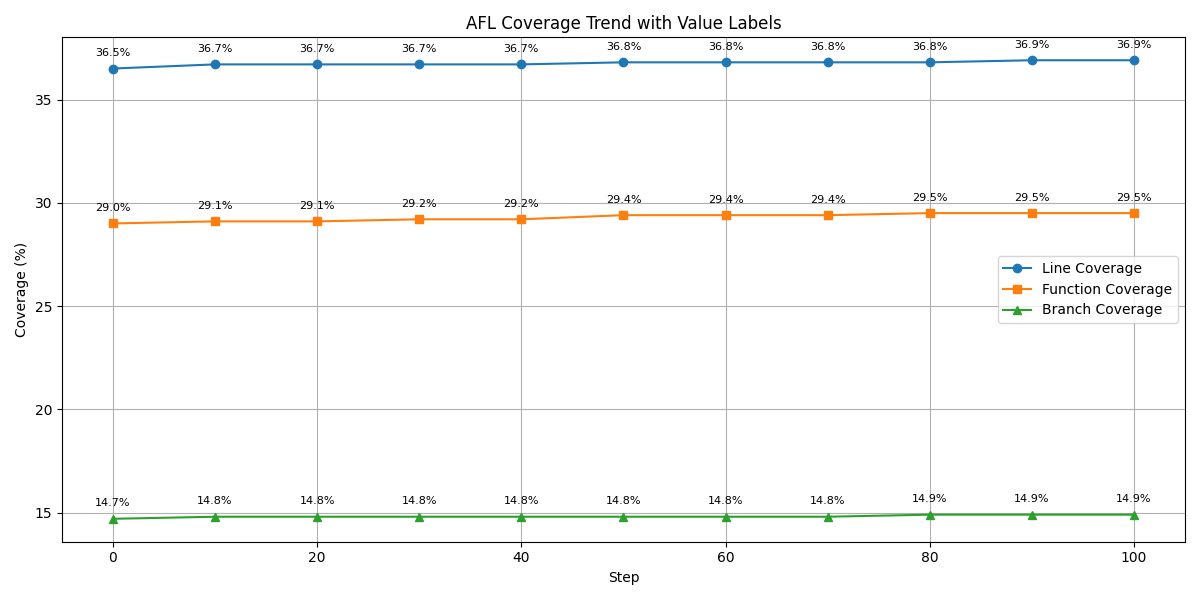
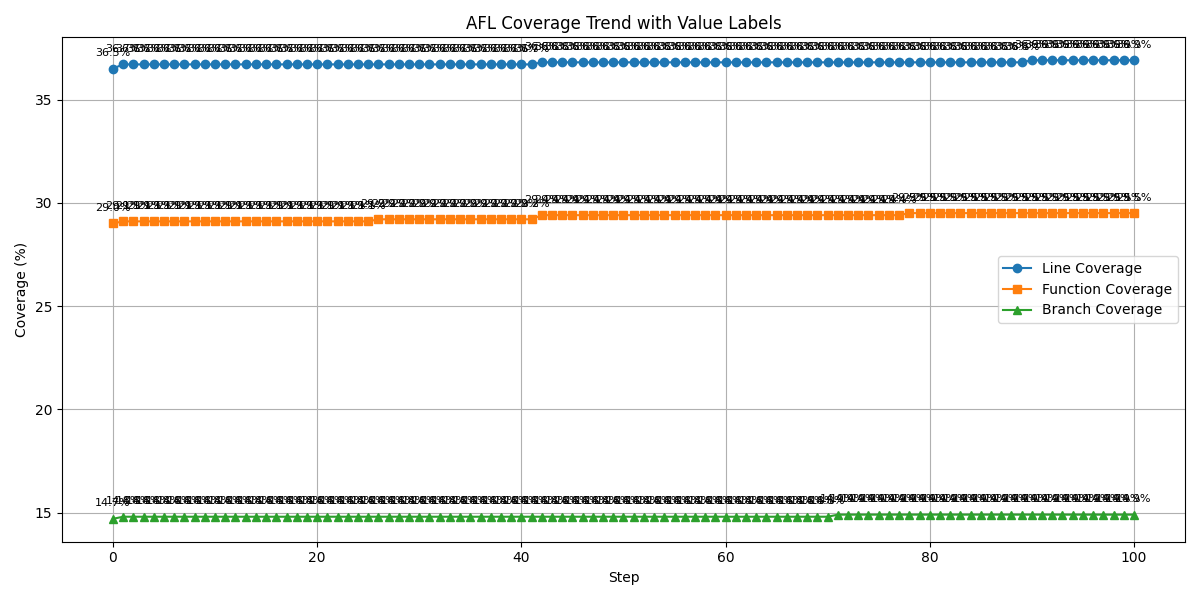
-

Changed region(s): [[0.0925, 0.3, 0.9558, 0.39], [0.0925, 0.81, 0.9558, 0.87], [0.0925, 0.06, 0.9558, 0.12]]

diff --git a/Distri/plot_afl_cov.py b/Distri/plot_afl_cov.py
@@ -34,6 +34,8 @@ def parse_afl_cov_log(file_path):
 def plot_coverage_trend(log_file='coverage.log'):
     x, lines, funcs, branches = parse_afl_cov_log(log_file)
 
+    print(len(x), len(lines), len(funcs), len(branches))
+
     plt.figure(figsize=(12, 6))
 
     def plot_with_labels(x, y, label, marker):
@@ -41,7 +43,7 @@ def plot_coverage_trend(log_file='coverage.log'):
         for i, (x_i, y_i) in enumerate(zip(x, y)):
             plt.text(x_i, y_i + 0.5, f"{y_i:.1f}%", ha='center', va='bottom', fontsize=8)
 
-    step = 10
+    step = 1
     plot_with_labels(x[::step], lines[::step], 'Line Coverage', 'o')
     plot_with_labels(x[::step], funcs[::step], 'Function Coverage', 's')
     plot_with_labels(x[::step], branches[::step], 'Branch Coverage', '^')
@@ -53,7 +55,6 @@ def plot_coverage_trend(log_file='coverage.log'):
     plt.grid(True)
     plt.tight_layout()
     plt.savefig("afl_coverage_trend_jsc_sp.png")
-    print("图已保存为 afl_coverage_trend_annotated.png")
 
 # 使用示例
 plot_coverage_trend("/home/out-superion/jsc-24/1/cov/afl-cov.log")
